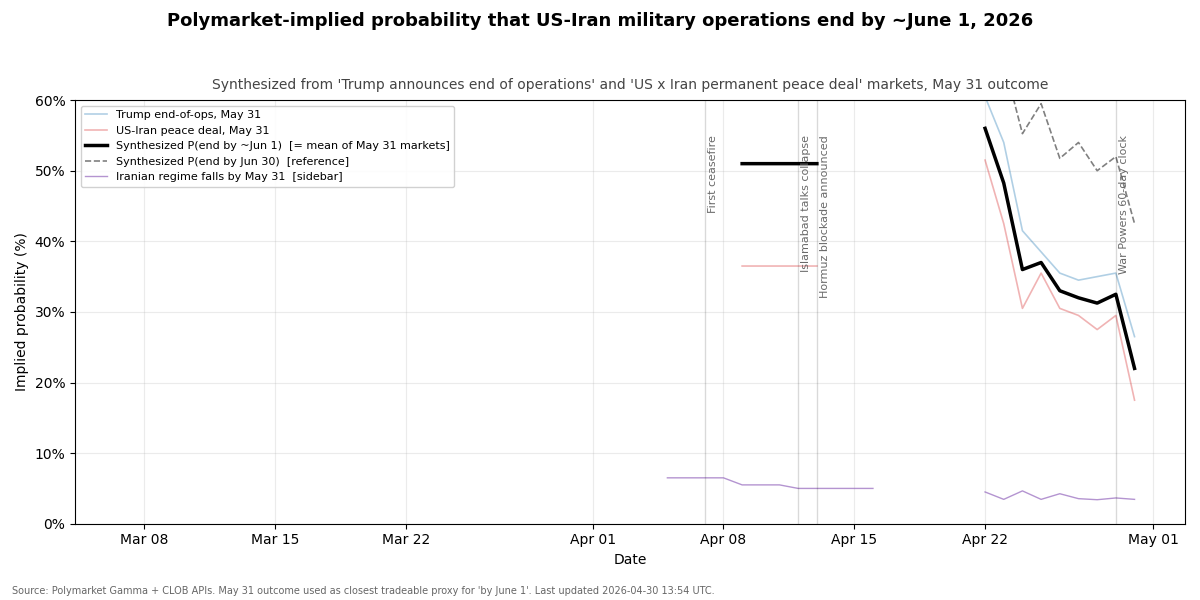
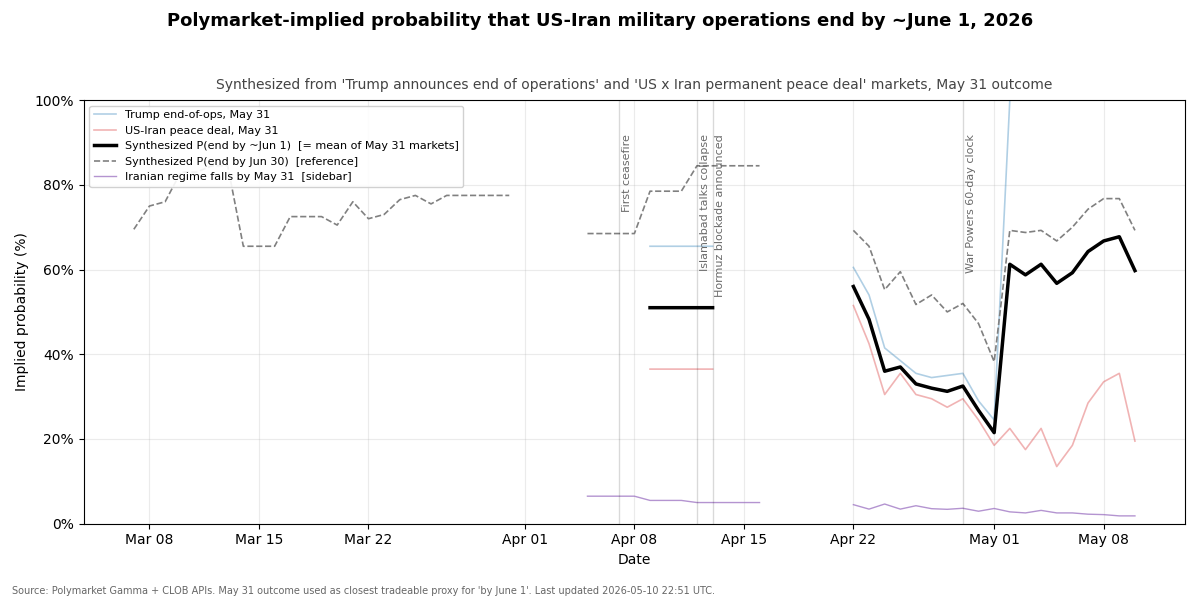
Handle resolved Polymarket markets in synthesis
The trump_end May-31 and June-30 markets resolved YES (closed=true,
outcomePrices=['1','0']) but their CLOB Yes-token history stopped at a
stale ~0.25 last-trade price, so the swap heuristic was wrongly flipping
to the No token and the 2-day ffill left both columns NaN at today --
silently collapsing the equal-weighted synthesis to peace_deal alone.

Anchor closed/decisive markets at the resolved value through today,
exempt main constituents from the is_locked skip (so they contribute
their resolved value), and let the chart y-axis scale up to 100%.

diff --git a/iran_war_end_chart.py b/iran_war_end_chart.py
@@ -179,10 +179,26 @@ def fetch_history(token_id: str, fidelity: int = 1440) -> pd.Series:
 
 
 def yes_series(mi: MarketInfo) -> pd.Series:
-    """Pull Yes-price history; auto-flip to No token if snapshot mismatches."""
+    """Pull Yes-price history; handle resolved markets and Yes/No swap heuristic."""
     s = fetch_history(mi.yes_token_id)
+
+    # Resolved markets: anchor the YES series at the resolved value through today.
+    # CLOB history often stops at a stale last-trade price and misses the
+    # settlement jump, which would otherwise trigger a wrong Yes/No swap.
+    if mi.closed and mi.snapshot_yes is not None and (mi.snapshot_yes >= 0.99 or mi.snapshot_yes <= 0.01):
+        now = pd.Timestamp.now(tz="UTC").floor("D")
+        if s.empty:
+            print(f"INFO market {mi.market_id} ({mi.key} {mi.outcome_label}) resolved at {mi.snapshot_yes}; no history")
+            return pd.Series([mi.snapshot_yes], index=[now], dtype=float)
+        last_trade = s.index.max()
+        if now > last_trade:
+            fill_idx = pd.date_range(last_trade + pd.Timedelta(days=1), now, freq="1D", tz="UTC")
+            s = pd.concat([s, pd.Series(mi.snapshot_yes, index=fill_idx, dtype=float)])
+            print(f"INFO market {mi.market_id} ({mi.key} {mi.outcome_label}) resolved at {mi.snapshot_yes}; "
+                  f"extended from {last_trade.date()} to {now.date()}")
+        return s.sort_index()
+
     if s.empty:
-        # Try the other token in case the gamma ordering was reversed.
         s_alt = fetch_history(mi.no_token_id)
         if not s_alt.empty and mi.snapshot_yes is not None:
             if abs(s_alt.iloc[-1] - mi.snapshot_yes) <= 0.05:
@@ -244,7 +260,9 @@ def build_frame() -> tuple[pd.DataFrame, dict[str, MarketInfo]]:
             if s.empty:
                 print(f"WARN empty history for {key} {label}", file=sys.stderr)
                 continue
-            if is_locked(s):
+            # is_locked skip is only for the optional sidebar markets (no_strike);
+            # main constituents should still contribute their resolved value to the mean.
+            if key not in MAIN_KEYS and is_locked(s):
                 print(f"INFO skipping locked market {key} {label} (already resolved)")
                 continue
             col = f"{key}__{label.replace(' ', '_').lower()}"
@@ -299,7 +317,13 @@ def plot(df: pd.DataFrame, chosen: dict[str, MarketInfo]) -> Path:
         ax.plot(df.index, df["regime"] * 100, color="#9467bd", linewidth=1.0, alpha=0.7,
                 label="Iranian regime falls by May 31  [sidebar]")
 
-    ax.set_ylim(0, 60)
+    data_max_pct = 0.0
+    for col in df.columns:
+        v = df[col].max()
+        if pd.notna(v):
+            data_max_pct = max(data_max_pct, float(v) * 100)
+    ymax = min(100, max(60, int(data_max_pct * 1.15) + 5))
+    ax.set_ylim(0, ymax)
     ax.set_ylabel("Implied probability (%)")
     ax.set_xlabel("Date")
     ax.yaxis.set_major_formatter(plt.FuncFormatter(lambda x, _: f"{x:.0f}%"))
@@ -308,7 +332,7 @@ def plot(df: pd.DataFrame, chosen: dict[str, MarketInfo]) -> Path:
     ax.grid(True, alpha=0.25)
 
     # Annotations
-    ymax_anno = 55
+    ymax_anno = ymax * 0.92
     for d, label in ANNOTATIONS:
         dt = pd.Timestamp(d, tz="UTC")
         if dt < df.index.min() or dt > df.index.max():